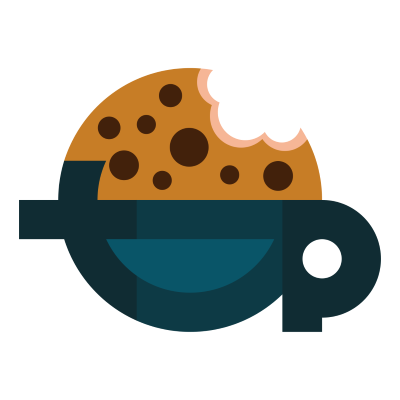
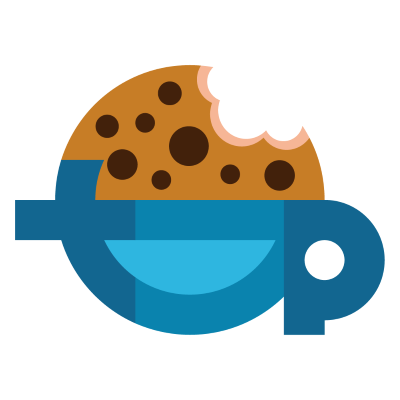
Fix of Font Not Found (#54)
* fix of font not found
* update of icon

diff --git a/src/TeaPie.DotnetTool/Displayer.cs b/src/TeaPie.DotnetTool/Displayer.cs
@@ -5,13 +5,13 @@ namespace TeaPie.DotnetTool;
 
 internal static class Displayer
 {
-    private static readonly Color _teaColor = Color.Teal;
+    private static readonly Color _teaColor = new(10, 131, 174);
     private static readonly Color _pieColor = new(195, 124, 36);
     private static readonly Color _versionColor = Color.White;
 
-    private static readonly FigletFont _font = FigletFont.Load(FigletFontPath);
+    private static FigletFont _font = FigletFont.Default;
 
-    private const string FigletFontPath = "Assets/Fonts/small.flf";
+    private const string FigletFontResourcePath = "TeaPie.DotnetTool.Assets.Fonts.small.flf";
     private const int TeaFigletWidth = 21;
     private const int PieFigletWidth = 17;
 
@@ -20,8 +20,24 @@ internal static class Displayer
 
     public static void DisplayApplicationHeader()
     {
+        ResolveFont();
         var table = RenderTable();
         AnsiConsole.Write(table);
+    }
+
+    private static void ResolveFont()
+    {
+        try
+        {
+            var assembly = Assembly.GetExecutingAssembly();
+
+            using var stream = assembly.GetManifestResourceStream(FigletFontResourcePath);
+            _font = FigletFont.Load(stream!);
+        }
+        catch
+        {
+            _font = FigletFont.Default;
+        }
     }
 
     public static Table RenderTable()

diff --git a/docs/extension.md b/docs/extension.md
@@ -1,6 +1,6 @@
 # TeaPie Extension for Visual Studio Code
 
-![TeaPie Extension Logo](images/teapie-extension-logo.png)
+![TeaPie Extension Logo](./images/teapie-extension-logo.png)
 
 For more convenient development with TeaPie tool in **Visual Studio Code**, respectively **Cursor AI**, there is **available experimental extension**.
 
